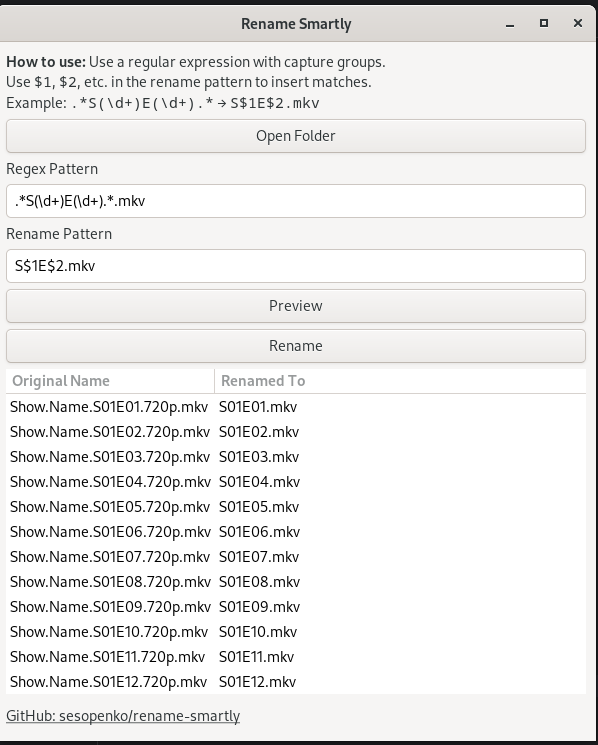
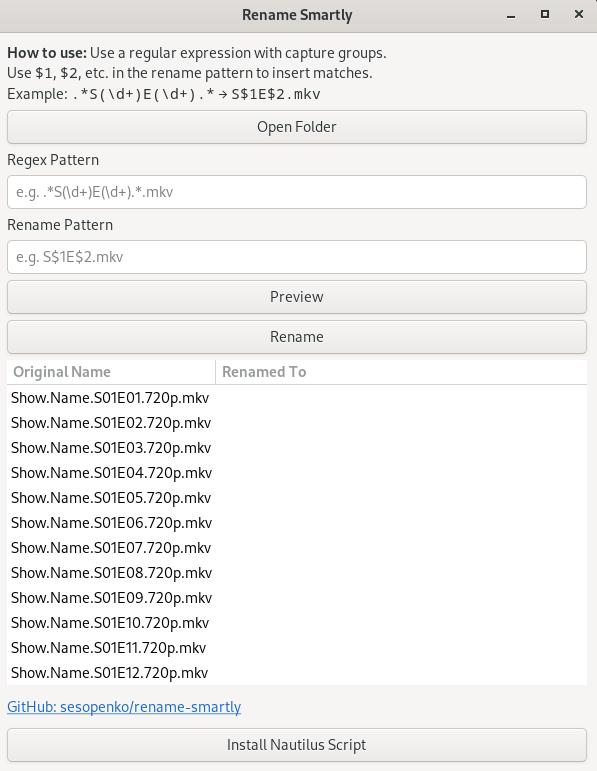
Document the nautilus integratoin and remove on uninstall

Changed region(s): [[0.0, 0.0, 1.0, 1.0]]

diff --git a/README.md b/README.md
@@ -1,10 +1,19 @@
 # Rename Smartly
 
-**Rename Smartly** is a simple, fast, and user-friendly desktop app for batch-renaming files in a folder using regular expressions and replacement patterns.
+**Rename Smartly** is a simple, fast, and user-friendly desktop app for batch-renaming files in a folder using regular
+expressions and replacement patterns.
 
-It provides a graphical interface that shows a live preview of how your files will be renamed. Ideal for renaming TV shows, logs, images, or any structured filenames.
+It provides a graphical interface that shows a live preview of how your files will be renamed. Ideal for renaming TV
+shows, logs, images, or any structured filenames.
 
 ![](docs/screenshot.png)
+---
+
+## Requirements
+
+* Debian based linux (Ubuntu/Debian)
+* Python 3.11 or later
+
 ---
 
 ## ✨ How It Works
@@ -42,6 +51,20 @@ S02E05.mkv
 ```
 
 > Files that do **not match** the regex will be listed, but left unchanged (shown with an empty "Renamed To" column).
+
+---
+
+### Nautilus Integration
+
+When installed via the deb pressing the "Install Nautilus Script" button will add a script to
+`~/.local/share/nautilus/scripts/Rename\ Smartly`. This enables a Scripts -> Rename Smartly context menu when
+right-clicking folders in Nautilus.
+
+## Installation
+
+1. Download deb from [Releases](https://github.com/sesopenko/rename-smartly/releases)
+2. `sudo dpkg -i rename-smartly_<version>_all.deb` ie: `sudo dpkg -i rename_smartly_1.1_all.deb`
+3.
 
 ---
 
